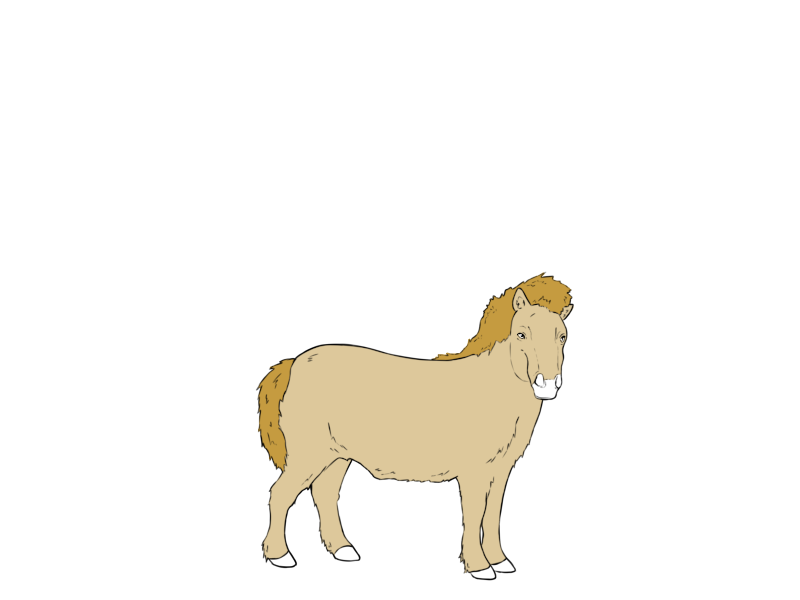
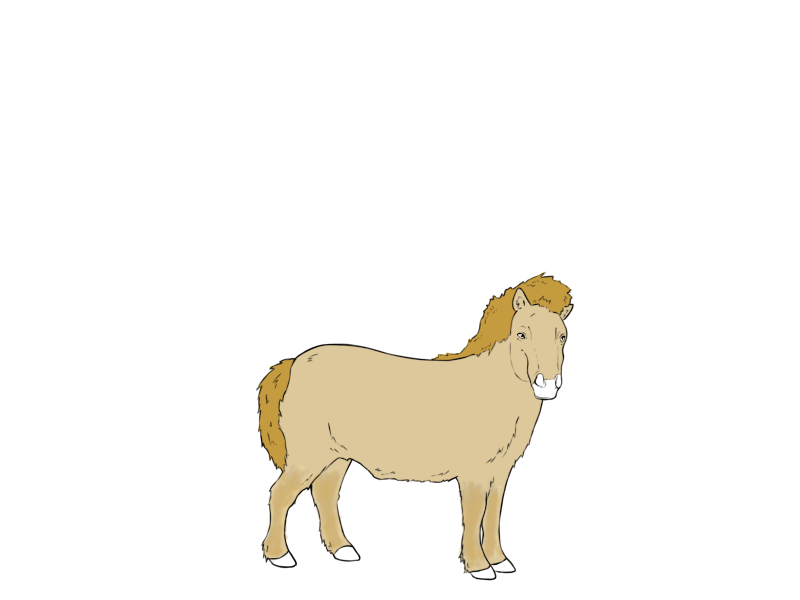
perlinos

Changed region(s): [[0.3125, 0.78, 0.4375, 0.93], [0.5625, 0.81, 0.625, 0.93]]

diff --git a/database/seeds/CouleurImageTableSeeder.php b/database/seeds/CouleurImageTableSeeder.php
@@ -1755,29 +1755,13 @@ class CouleurImageTableSeeder extends Seeder
             ),
             217 => 
             array (
-                'id' => 262,
-                'couleur_id' => 12,
-                'image_id' => 170,
-                'created_at' => NULL,
-                'updated_at' => NULL,
-            ),
-            218 => 
-            array (
-                'id' => 263,
-                'couleur_id' => 27,
-                'image_id' => 170,
-                'created_at' => NULL,
-                'updated_at' => NULL,
-            ),
-            219 => 
-            array (
                 'id' => 264,
                 'couleur_id' => 27,
                 'image_id' => 165,
                 'created_at' => NULL,
                 'updated_at' => NULL,
             ),
-            220 => 
+            218 => 
             array (
                 'id' => 265,
                 'couleur_id' => 169,
@@ -1785,7 +1769,7 @@ class CouleurImageTableSeeder extends Seeder
                 'created_at' => NULL,
                 'updated_at' => NULL,
             ),
-            221 => 
+            219 => 
             array (
                 'id' => 266,
                 'couleur_id' => 169,
@@ -1793,7 +1777,7 @@ class CouleurImageTableSeeder extends Seeder
                 'created_at' => NULL,
                 'updated_at' => NULL,
             ),
-            222 => 
+            220 => 
             array (
                 'id' => 267,
                 'couleur_id' => 184,
@@ -1801,7 +1785,7 @@ class CouleurImageTableSeeder extends Seeder
                 'created_at' => NULL,
                 'updated_at' => NULL,
             ),
-            223 => 
+            221 => 
             array (
                 'id' => 268,
                 'couleur_id' => 184,
@@ -1809,7 +1793,7 @@ class CouleurImageTableSeeder extends Seeder
                 'created_at' => NULL,
                 'updated_at' => NULL,
             ),
-            224 => 
+            222 => 
             array (
                 'id' => 269,
                 'couleur_id' => 32,
@@ -1817,7 +1801,7 @@ class CouleurImageTableSeeder extends Seeder
                 'created_at' => NULL,
                 'updated_at' => NULL,
             ),
-            225 => 
+            223 => 
             array (
                 'id' => 270,
                 'couleur_id' => 41,
@@ -1825,7 +1809,7 @@ class CouleurImageTableSeeder extends Seeder
                 'created_at' => NULL,
                 'updated_at' => NULL,
             ),
-            226 => 
+            224 => 
             array (
                 'id' => 271,
                 'couleur_id' => 181,
@@ -1833,7 +1817,7 @@ class CouleurImageTableSeeder extends Seeder
                 'created_at' => NULL,
                 'updated_at' => NULL,
             ),
-            227 => 
+            225 => 
             array (
                 'id' => 272,
                 'couleur_id' => 182,
@@ -1841,7 +1825,7 @@ class CouleurImageTableSeeder extends Seeder
                 'created_at' => NULL,
                 'updated_at' => NULL,
             ),
-            228 => 
+            226 => 
             array (
                 'id' => 273,
                 'couleur_id' => 182,
@@ -1849,7 +1833,7 @@ class CouleurImageTableSeeder extends Seeder
                 'created_at' => NULL,
                 'updated_at' => NULL,
             ),
-            229 => 
+            227 => 
             array (
                 'id' => 274,
                 'couleur_id' => 174,
@@ -1857,7 +1841,7 @@ class CouleurImageTableSeeder extends Seeder
                 'created_at' => NULL,
                 'updated_at' => NULL,
             ),
-            230 => 
+            228 => 
             array (
                 'id' => 275,
                 'couleur_id' => 176,
@@ -1865,7 +1849,7 @@ class CouleurImageTableSeeder extends Seeder
                 'created_at' => NULL,
                 'updated_at' => NULL,
             ),
-            231 => 
+            229 => 
             array (
                 'id' => 276,
                 'couleur_id' => 185,
@@ -1873,7 +1857,7 @@ class CouleurImageTableSeeder extends Seeder
                 'created_at' => NULL,
                 'updated_at' => NULL,
             ),
-            232 => 
+            230 => 
             array (
                 'id' => 277,
                 'couleur_id' => 13,
@@ -1881,7 +1865,7 @@ class CouleurImageTableSeeder extends Seeder
                 'created_at' => NULL,
                 'updated_at' => NULL,
             ),
-            233 => 
+            231 => 
             array (
                 'id' => 278,
                 'couleur_id' => 35,
@@ -1889,7 +1873,7 @@ class CouleurImageTableSeeder extends Seeder
                 'created_at' => NULL,
                 'updated_at' => NULL,
             ),
-            234 => 
+            232 => 
             array (
                 'id' => 279,
                 'couleur_id' => 167,
@@ -1897,7 +1881,7 @@ class CouleurImageTableSeeder extends Seeder
                 'created_at' => NULL,
                 'updated_at' => NULL,
             ),
-            235 => 
+            233 => 
             array (
                 'id' => 280,
                 'couleur_id' => 141,
@@ -1905,7 +1889,7 @@ class CouleurImageTableSeeder extends Seeder
                 'created_at' => NULL,
                 'updated_at' => NULL,
             ),
-            236 => 
+            234 => 
             array (
                 'id' => 281,
                 'couleur_id' => 175,
@@ -1913,7 +1897,7 @@ class CouleurImageTableSeeder extends Seeder
                 'created_at' => NULL,
                 'updated_at' => NULL,
             ),
-            237 => 
+            235 => 
             array (
                 'id' => 282,
                 'couleur_id' => 177,
@@ -1921,7 +1905,7 @@ class CouleurImageTableSeeder extends Seeder
                 'created_at' => NULL,
                 'updated_at' => NULL,
             ),
-            238 => 
+            236 => 
             array (
                 'id' => 283,
                 'couleur_id' => 181,
@@ -1929,7 +1913,7 @@ class CouleurImageTableSeeder extends Seeder
                 'created_at' => NULL,
                 'updated_at' => NULL,
             ),
-            239 => 
+            237 => 
             array (
                 'id' => 284,
                 'couleur_id' => 185,
@@ -1937,7 +1921,7 @@ class CouleurImageTableSeeder extends Seeder
                 'created_at' => NULL,
                 'updated_at' => NULL,
             ),
-            240 => 
+            238 => 
             array (
                 'id' => 285,
                 'couleur_id' => 185,
@@ -1945,7 +1929,7 @@ class CouleurImageTableSeeder extends Seeder
                 'created_at' => NULL,
                 'updated_at' => NULL,
             ),
-            241 => 
+            239 => 
             array (
                 'id' => 286,
                 'couleur_id' => 188,
@@ -1953,11 +1937,19 @@ class CouleurImageTableSeeder extends Seeder
                 'created_at' => NULL,
                 'updated_at' => NULL,
             ),
-            242 => 
+            240 => 
             array (
                 'id' => 287,
                 'couleur_id' => 189,
                 'image_id' => 172,
+                'created_at' => NULL,
+                'updated_at' => NULL,
+            ),
+            241 => 
+            array (
+                'id' => 288,
+                'couleur_id' => 28,
+                'image_id' => 165,
                 'created_at' => NULL,
                 'updated_at' => NULL,
             ),

diff --git a/database/seeds/ImagesTableSeeder.php b/database/seeds/ImagesTableSeeder.php
@@ -1408,7 +1408,7 @@ class ImagesTableSeeder extends Seeder
                 'id' => 166,
                 'chemin' => 'membresnoirs',
                 'extension' => 'png',
-                'z_index' => 28,
+                'z_index' => 20,
                 'created_at' => NULL,
                 'updated_at' => NULL,
             ),
